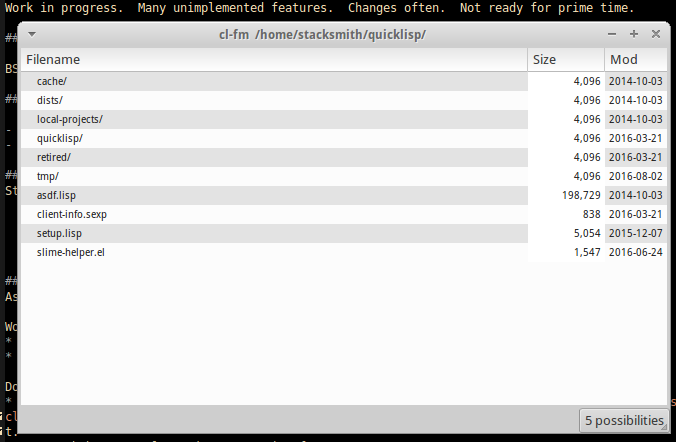
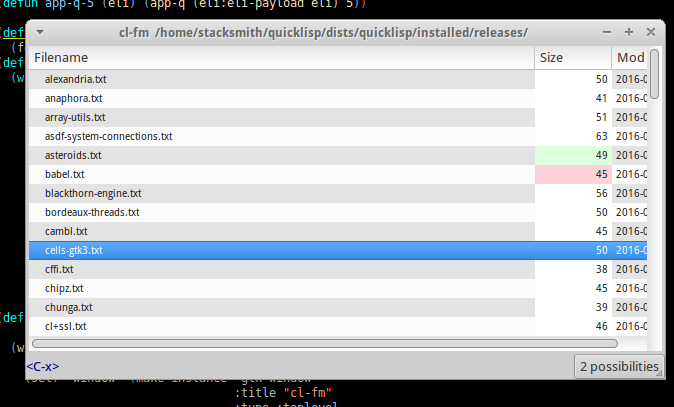
updated readme

diff --git a/README.md b/README.md
@@ -29,8 +29,14 @@ Start by cloning this repo and gtk-emacs-like-input to a place where quicklisp w
 	(test :dir "...") ;put your test directory here - but be careful and use a scrap dir.
 	
 ## Status
-As of 22-Sept-2016...
 
+23-Sept-2016
+* added color q tagging with <C-0> to <C-5>. This is an early test, but I've been wanting to color-tag files since early Macintosh days.  It seems there is no file manager that does it, much less one that does it easily.  So, <C-0> clears color tagging, and <C-1> to <C-5> let you set a color between green and red for quality or whatever.  For now, I am just colorizing the size field as color background breaks the stripy splendor of the tree control.  See the screenshot...
+* <UP> and <DOWN> arrows are bound to eli's instant keymap, with a function that just returns nil so GTK can take over the scrolling.
+* drag and drop is almost ready for action - try dragging files around and see the textual representation of the intended action.  Seems to be correct for copy, move, etc and also outputs file lists.
+
+
+22-Sept-2016...
 Works:
 * Directory navigation by double-clicking directories;
 * Also, left arrow goes up to parent - as well as ^.
